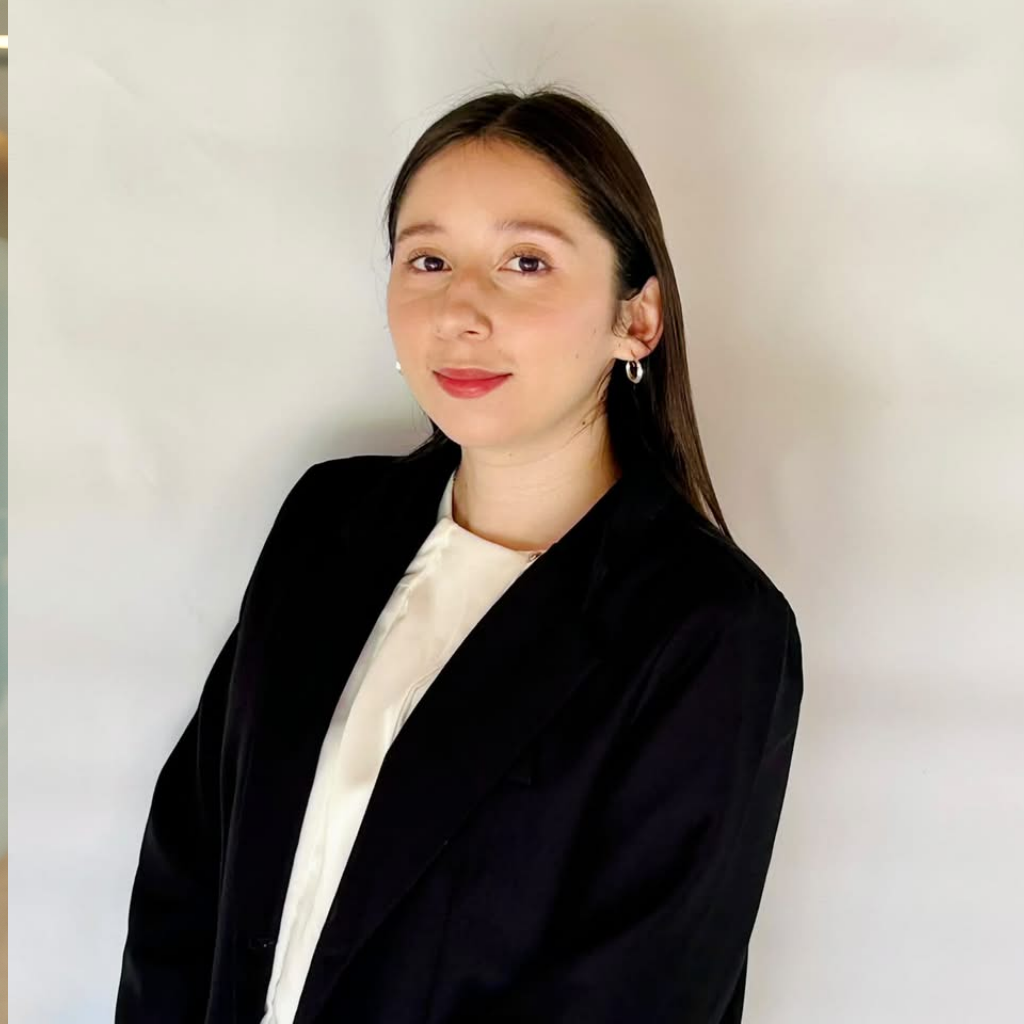
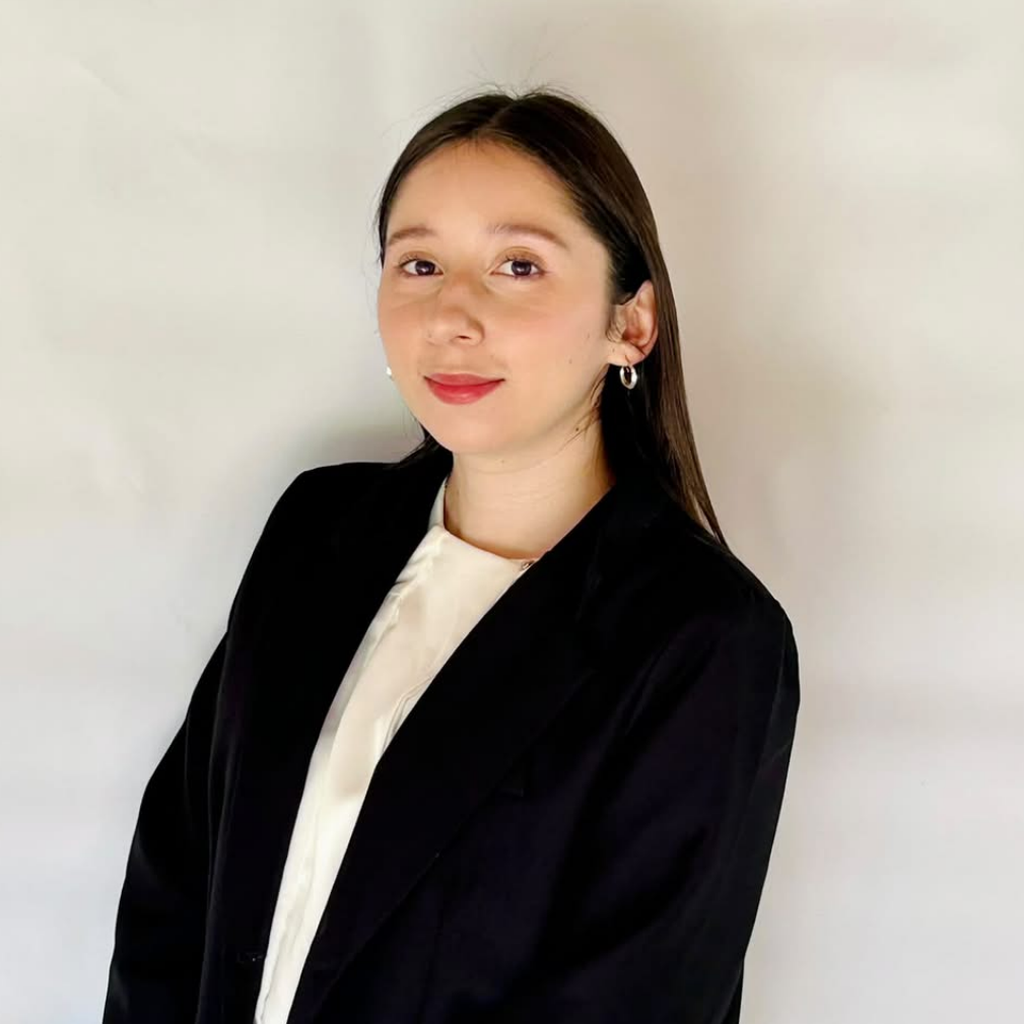
add better performance

diff --git a/src/components/Contacto.jsx b/src/components/Contacto.jsx
@@ -1,5 +1,5 @@
-import React from 'react';
-import { MapPin, Phone, Mail, Navigation } from 'lucide-react';
+import React, { useState } from 'react';
+import { MapPin, Phone, Mail, Navigation, Copy, Check } from 'lucide-react';
 
 const InstagramIcon = ({ size = 22, ...props }) => (
   <svg width={size} height={size} viewBox="0 0 24 24" fill="none" stroke="currentColor" strokeWidth="1.5" strokeLinecap="round" strokeLinejoin="round" {...props}>
@@ -9,7 +9,26 @@ const InstagramIcon = ({ size = 22, ...props }) => (
   </svg>
 );
 
+const WhatsAppIcon = ({ size = 22, ...props }) => (
+  <svg width={size} height={size} viewBox="0 0 24 24" fill="currentColor" {...props}>
+    <path d="M17.472 14.382c-.297-.149-1.758-.867-2.03-.967-.273-.099-.471-.148-.67.15-.197.297-.767.966-.94 1.164-.173.199-.347.223-.644.075-.297-.15-1.255-.463-2.39-1.475-.883-.788-1.48-1.761-1.653-2.059-.173-.297-.018-.458.13-.606.134-.133.298-.347.446-.521.151-.172.2-.296.3-.495.099-.198.05-.372-.025-.521-.075-.148-.669-1.611-.916-2.206-.242-.579-.487-.501-.669-.51l-.57-.01c-.198 0-.52.074-.792.372s-1.04 1.016-1.04 2.479 1.065 2.876 1.213 3.074c.149.198 2.095 3.2 5.076 4.487.709.306 1.263.489 1.694.626.712.226 1.36.194 1.872.118.571-.085 1.758-.719 2.006-1.413.248-.695.248-1.29.173-1.414-.074-.124-.272-.198-.57-.347z"/>
+    <path d="M12 2C6.477 2 2 6.477 2 12c0 2.15.679 4.14 1.838 5.773L2.5 21.5l3.864-1.309A9.957 9.957 0 0 0 12 22c5.523 0 10-4.477 10-10S17.523 2 12 2zm0 18a7.96 7.96 0 0 1-4.062-1.11l-.291-.173-2.298.778.791-2.241-.189-.3a7.96 7.96 0 1 1 6.049 3.046z"/>
+  </svg>
+);
+
 const Contacto = () => {
+  const [copiedEmail, setCopiedEmail] = useState(false);
+
+  const handleCopyEmail = (e) => {
+    e.preventDefault();
+    e.stopPropagation();
+    navigator.clipboard.writeText('coronel.asociados.estudio@gmail.com');
+    setCopiedEmail(true);
+    setTimeout(() => setCopiedEmail(false), 2000);
+  };
+
+  const whatsappMessage = encodeURIComponent('Hola, quisiera realizar una consulta jurídica con el Estudio Coronel & Asociados.');
+  const whatsappUrl = `https://wa.me/5491153698788?text=${whatsappMessage}`;
   return (
     <section
       id="contacto"
@@ -147,22 +166,37 @@ const Contacto = () => {
 
                 <div style={{ borderBottom: '1px solid rgba(255, 255, 255, 0.06)' }}></div>
 
-                {/* Telefono Directo */}
-                <div style={{ display: 'flex', alignItems: 'flex-start', gap: '20px' }}>
+                {/* Telefono Directo - WhatsApp */}
+                <a
+                  href={whatsappUrl}
+                  target="_blank"
+                  rel="noopener noreferrer"
+                  style={{
+                    display: 'flex',
+                    alignItems: 'flex-start',
+                    gap: '20px',
+                    textDecoration: 'none',
+                    color: 'inherit',
+                    transition: 'transform 0.2s ease',
+                  }}
+                  className="contact-whatsapp-link"
+                >
                   <div
                     style={{
                       width: '48px',
                       height: '48px',
                       borderRadius: '12px',
-                      border: '1px solid rgba(255, 255, 255, 0.15)',
+                      border: '1px solid rgba(37, 211, 102, 0.4)',
+                      background: 'rgba(37, 211, 102, 0.1)',
                       display: 'flex',
                       alignItems: 'center',
                       justifyContent: 'center',
-                      color: '#FFFFFF',
+                      color: '#25D366',
                       flexShrink: 0,
+                      transition: 'all 0.3s ease',
                     }}
                   >
-                    <Phone size={22} strokeWidth={1.5} />
+                    <WhatsAppIcon size={24} />
                   </div>
                   <div>
                     <span
@@ -175,13 +209,37 @@ const Contacto = () => {
                         display: 'block',
                       }}
                     >
-                      TELÉFONO DIRECTO
+                      TELÉFONO DIRECTO • WHATSAPP
                     </span>
-                    <p style={{ color: '#FFFFFF', fontWeight: 600, fontSize: '1.05rem', marginTop: '4px' }}>
-                      11 5369-8788
+                    <p
+                      style={{
+                        color: '#FFFFFF',
+                        fontWeight: 600,
+                        fontSize: '1.05rem',
+                        marginTop: '4px',
+                        display: 'flex',
+                        alignItems: 'center',
+                        gap: '10px',
+                        flexWrap: 'wrap',
+                      }}
+                    >
+                      <span>11 5369-8788</span>
+                      <span
+                        style={{
+                          fontSize: '0.72rem',
+                          color: '#25D366',
+                          background: 'rgba(37, 211, 102, 0.12)',
+                          border: '1px solid rgba(37, 211, 102, 0.3)',
+                          padding: '2px 8px',
+                          borderRadius: '12px',
+                          fontWeight: 500,
+                        }}
+                      >
+                        Abrir Chat
+                      </span>
                     </p>
                   </div>
-                </div>
+                </a>
 
                 <div style={{ borderBottom: '1px solid rgba(255, 255, 255, 0.06)' }}></div>
 
@@ -202,7 +260,7 @@ const Contacto = () => {
                   >
                     <Mail size={22} strokeWidth={1.5} />
                   </div>
-                  <div style={{ overflow: 'hidden' }}>
+                  <div style={{ overflow: 'hidden', flexGrow: 1 }}>
                     <span
                       style={{
                         fontSize: '0.75rem',
@@ -215,22 +273,54 @@ const Contacto = () => {
                     >
                       CORREO ELECTRÓNICO
                     </span>
-                    <a
-                      href="mailto:coronel.asociados.estudio@gmail.com"
-                      className="contact-value-text"
+                    <div
                       style={{
-                        color: '#FFFFFF',
-                        fontWeight: 500,
-                        fontSize: 'clamp(0.78rem, 2.5vw, 0.92rem)',
+                        display: 'flex',
+                        alignItems: 'center',
+                        gap: '10px',
                         marginTop: '4px',
-                        display: 'block',
-                        textDecoration: 'none',
-                        wordBreak: 'break-word',
-                        overflowWrap: 'anywhere',
+                        flexWrap: 'wrap',
                       }}
                     >
-                      coronel.asociados.estudio@gmail.com
-                    </a>
+                      <a
+                        href="mailto:coronel.asociados.estudio@gmail.com"
+                        className="contact-value-text"
+                        style={{
+                          color: '#FFFFFF',
+                          fontWeight: 500,
+                          fontSize: 'clamp(0.78rem, 2.5vw, 0.92rem)',
+                          textDecoration: 'none',
+                          wordBreak: 'break-word',
+                          overflowWrap: 'anywhere',
+                        }}
+                      >
+                        coronel.asociados.estudio@gmail.com
+                      </a>
+                      <button
+                        onClick={handleCopyEmail}
+                        type="button"
+                        title="Copiar correo electrónico"
+                        style={{
+                          display: 'inline-flex',
+                          alignItems: 'center',
+                          gap: '6px',
+                          background: copiedEmail ? 'rgba(46, 204, 113, 0.2)' : 'rgba(255, 255, 255, 0.08)',
+                          border: `1px solid ${copiedEmail ? 'rgba(46, 204, 113, 0.5)' : 'rgba(255, 255, 255, 0.18)'}`,
+                          borderRadius: '8px',
+                          padding: '3px 10px',
+                          color: copiedEmail ? '#2ECC71' : '#CBD5E1',
+                          fontSize: '0.75rem',
+                          fontWeight: 500,
+                          cursor: 'pointer',
+                          transition: 'all 0.2s ease',
+                          outline: 'none',
+                          lineHeight: '1.4',
+                        }}
+                      >
+                        {copiedEmail ? <Check size={13} /> : <Copy size={13} />}
+                        <span>{copiedEmail ? '¡Copiado!' : 'Copiar'}</span>
+                      </button>
+                    </div>
                   </div>
                 </div>
 

diff --git a/src/index.css b/src/index.css
@@ -356,6 +356,7 @@ input:focus, select:focus, textarea:focus {
     overflow-wrap: anywhere !important;
   }
 
+
   /* Header mobile adjustments to prevent horizontal overflow */
   .nav-header-container {
     padding: 0 12px !important;
